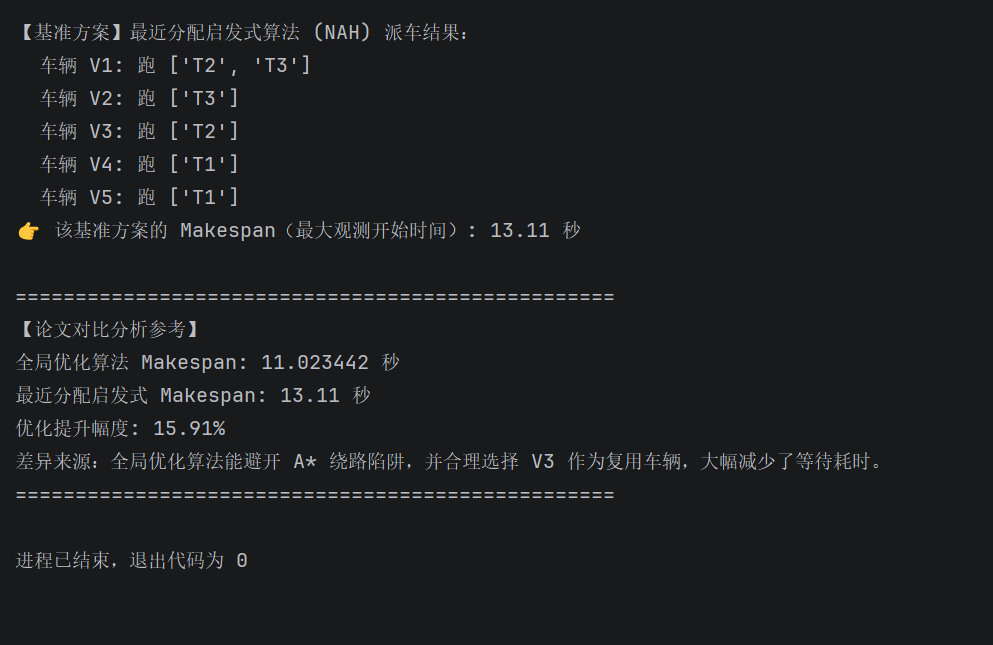
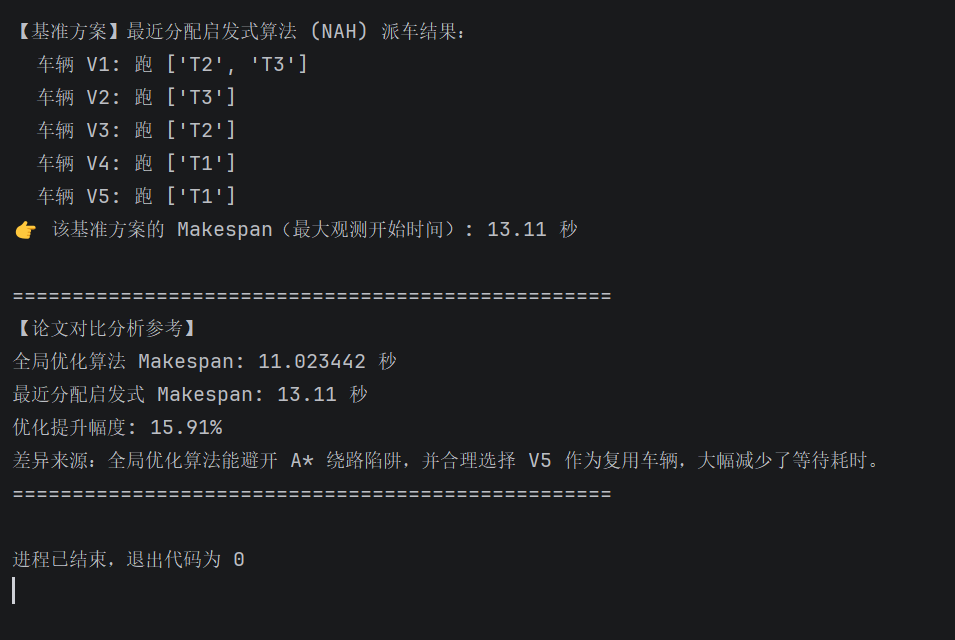
Add files via upload

diff --git a/scheduling_A/greedy_nearest_plan.py b/scheduling_A/greedy_nearest_plan.py
@@ -108,8 +108,8 @@ if __name__ == "__main__":
 
     print("\n" + "=" * 50)
     print("【论文对比分析参考】")
-    print(f"全局优化算法 Makespan: 10.60 秒")
+    print(f"全局优化算法 Makespan: 11.023442 秒")
     print(f"最近分配启发式 Makespan: {greedy_time:.2f} 秒")
-    print(f"优化提升幅度: {((greedy_time - 10.60) / greedy_time) * 100:.2f}%")
-    print("差异来源：全局优化算法能避开 A* 绕路陷阱，并合理选择 V3 作为复用车辆，大幅减少了等待耗时。")
+    print(f"优化提升幅度: {((greedy_time - 11.023442) / greedy_time) * 100:.2f}%")
+    print("差异来源：全局优化算法能避开 A* 绕路陷阱，并合理选择 V5 作为复用车辆，大幅减少了等待耗时。")
     print("=" * 50)
